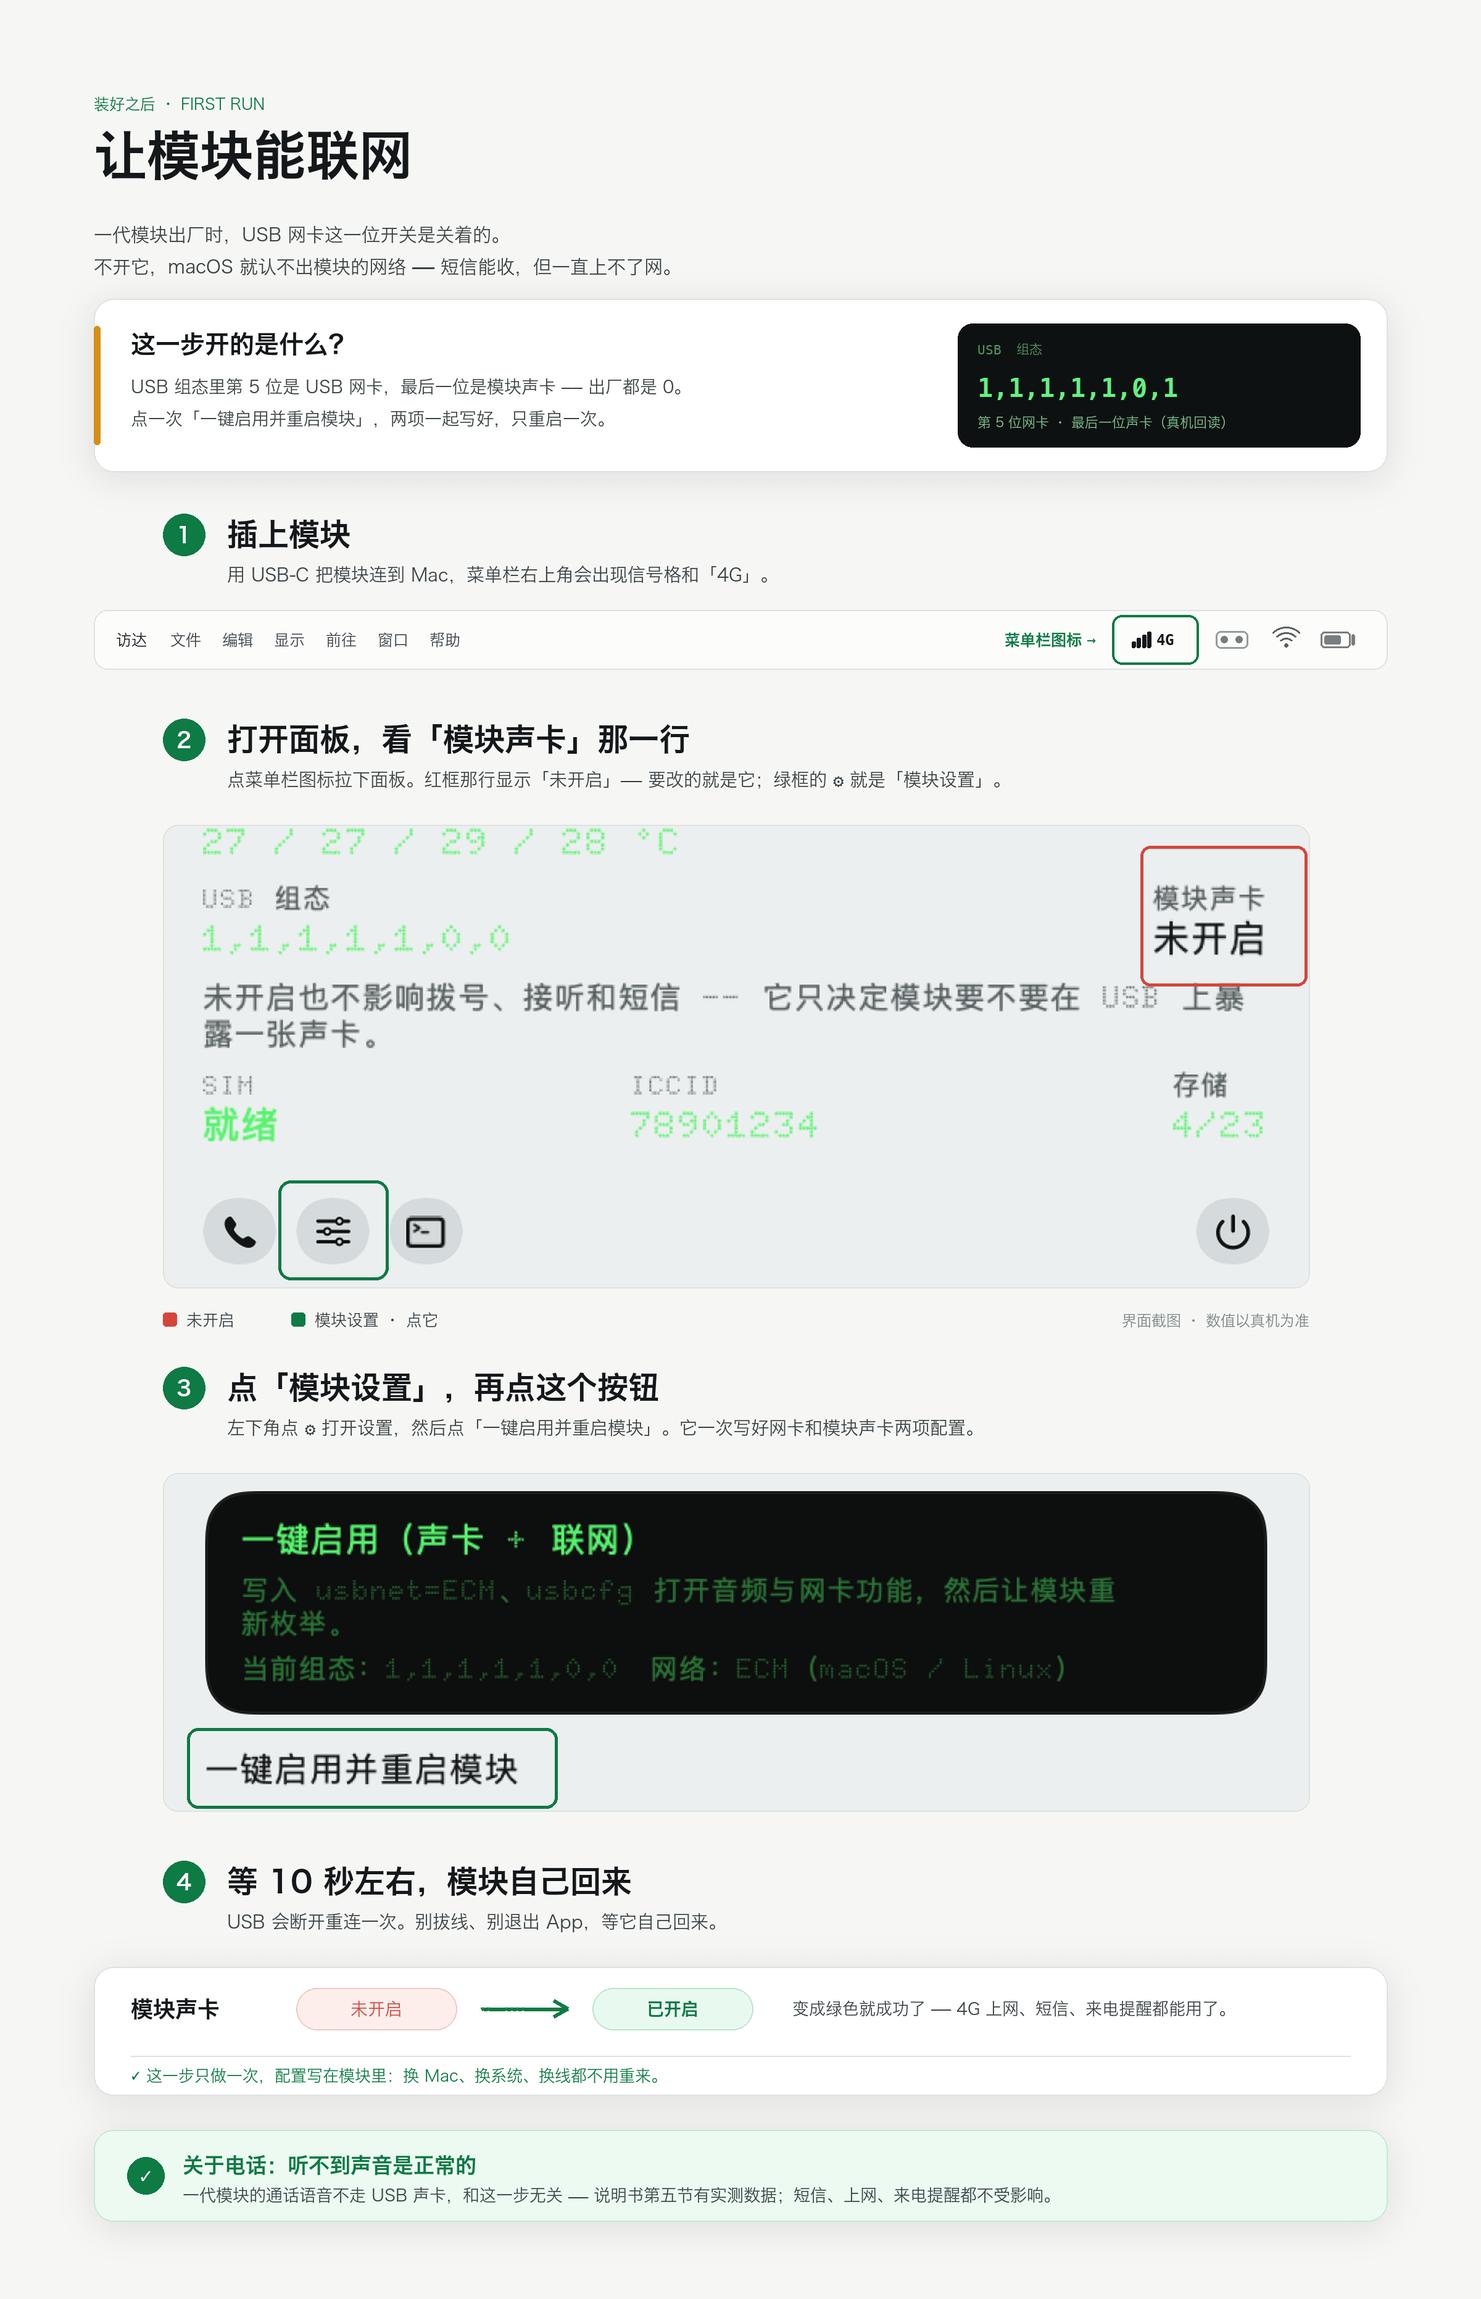
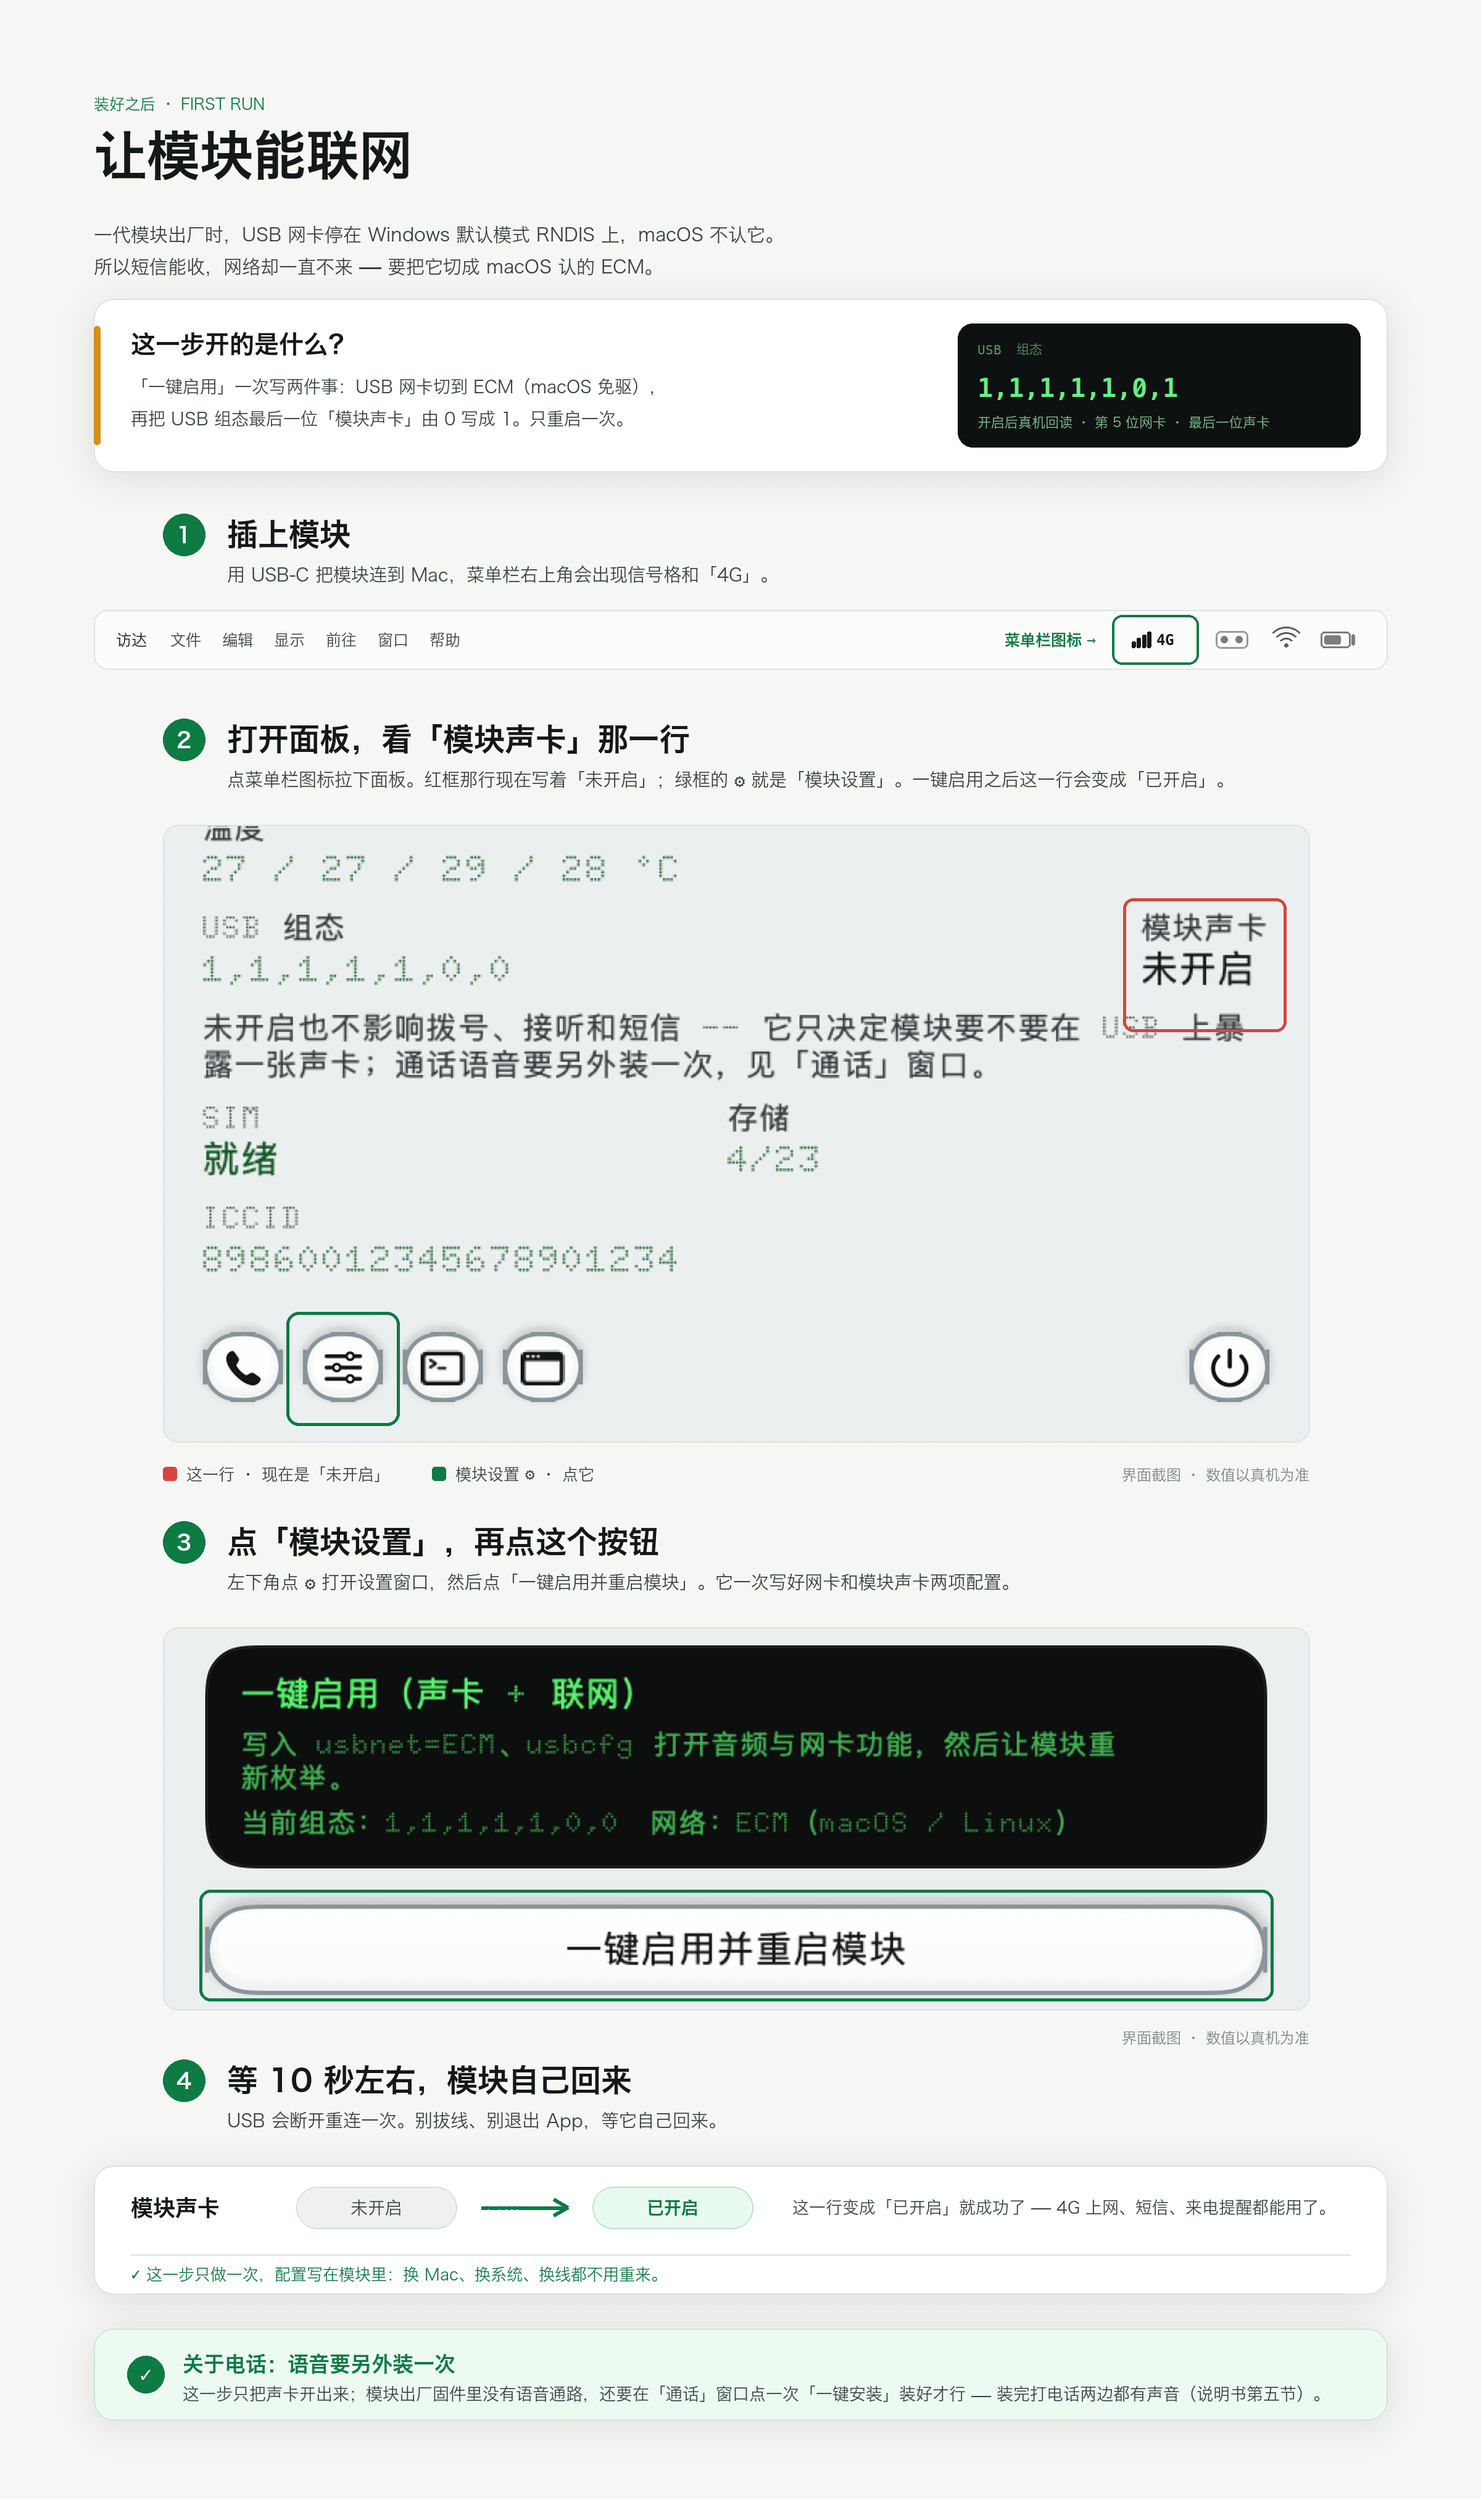
刷新首页与随仓库分发的脚本：打电话功能已经做通了
- README：去掉「这个模块当不了电话用」的旧说法，安装步骤补上
  「一键安装通话语音」这一步，安装包体积 3 MB → 13 MB
- install.sh / diagnose.command：换成与 v1.0 交付包同源的版本
  （2026-09-26），修掉包里少带点阵字体、App 一点就退出的问题
- 安装图解：两张都换成重新生成的版本，上一版第二张的截图是黑的

diff --git a/README.md b/README.md
@@ -1,12 +1,13 @@
 # 大疆 4G 模块 · Mac 端改装
 
-让大疆一代 4G 模块（QDC507 / 移远 EG25-G）在 macOS 上**收发短信、4G 上网、当来电提醒**。
+让大疆一代 4G 模块（QDC507 / 移远 EG25-G）在 macOS 上**打电话、收发短信、4G 上网**。
 
 插上 USB 就能用，一个菜单栏图标全搞定。
 
-> 先说清楚一条：这个模块**当不了电话用** —— 电话能拨通、能接、能挂，
-> 但接通之后两边都听不到声音。这是模块固件自己的行为（真机三组实测确认），
-> 不是设置问题、也不是卡的问题。短信、上网、来电提醒完全不受影响。
+> 电话要先用一次「一键安装通话语音」：一代模块出厂时没有建立通话语音通路，
+> 所以刚插上就拨号，两边都是没声音的。在「通话」窗口点一下那个按钮，
+> 等模块重启半分钟回来，之后拨号、接听、通话、挂断全都正常，两个方向都有声音。
+> 详情和真机实测数据见《客户说明》第五节。
 
 ---
 
@@ -17,7 +18,7 @@
 | 功能 | 说明 |
 | --- | --- |
 | 来电提醒 | 有人打这个号码，屏幕上跳一张带铃声的卡片，可以接听、可以拒接 |
-| 打电话 | 菜单栏直接拨号、接听、挂断；**接通后两边听不到声音**（见上方说明） |
+| 打电话 | 菜单栏直接拨号、接听、挂断；通话两个方向都有声音（先装一次通话语音） |
 | 收短信 | 短信列表，中文正常，长短信自动拼接 |
 | 发短信 | 支持中文，超长自动分段 |
 | 4G 上网 | 模块变成 Mac 的一块网卡 |
@@ -52,14 +53,18 @@ curl -fsSL https://github.com/zhangyuan-a11y/dji4g-mac/releases/latest/download/
 装完桌面会多出三个文件：一份完整说明书、一个一键诊断工具、一个卸载工具。
 
 > 客户电脑不方便上网？下载 [DJI4G-安装包.zip](https://github.com/zhangyuan-a11y/dji4g-mac/releases/latest/download/DJI4G-installer.zip)
-> （约 3 MB），解压后双击里面的「双击安装.command」，或者把它拖进终端窗口回车 —— 全程离线，不需要联网。
+> （约 13 MB），解压后双击里面的「双击安装.command」，或者把它拖进终端窗口回车 —— 全程离线，不需要联网。
 
-装好之后三步：
+装好之后四步：
 
 1. 把 SIM 卡插进模块的卡托（标准 nano-SIM）
 2. 把模块插到 Mac 的 USB 口（尽量直插，别经过扩展坞）
 3. 菜单栏图标 →「模块设置」→「一键启用并重启模块」（约 10 秒后模块回来）
-4. 点「体检」，它会告诉你还差什么
+4. 菜单栏图标 →「通话」→「一键安装通话语音」（约半分钟，模块会重启一次）
+5. 点「体检」，它会告诉你还差什么
+
+> 第 4 步只做一次。模块出厂时没有建立通话语音通路，补上之后拨号、接听、
+> 通话、挂断两个方向都有声音；不做这一步，电话能拨通但两边听不见。
 
 > 提示：启用 4G 上网时系统会要求输入开机密码 —— 因为要改「网络」设置，
 > 这一步必须你本人授权。
